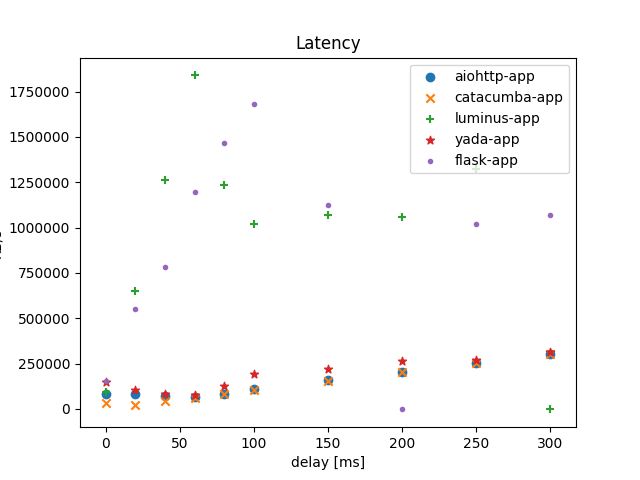
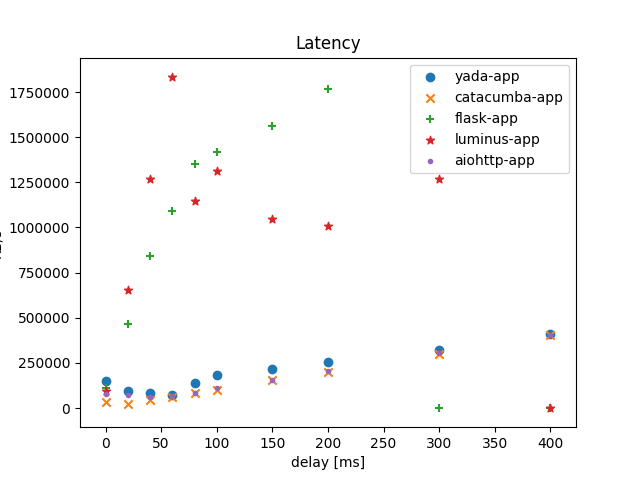
raw article

diff --git a/source/_drafts/clojure-vs-python-web-benchmark.md b/source/_drafts/clojure-vs-python-web-benchmark.md
@@ -1,5 +1,5 @@
 ---
-title: Clojure vs Python web benchamrk
+title: Clojure vs Python web benchmark
 tags:
     - python
     - clojure
@@ -12,42 +12,251 @@ tags:
 
 # Why?
 
-Im web developer and I want to know which tool I shoud use in given situation for backend. I have 3 languages in my belt: Clojure, JavaScript and Python so this post will be about python and clojure because i dont like JS:D.  I will check performance of my favorite python and clojure microframeworks:
+I'm web developer and I want to know which tool I should use in given situation for back-end. I have 3 languages in my belt: [Clojure], JavaScript and [Python] so this post will be about [Python] and clojure because i don't like JS:D.  I will check performance of my favorite [python] and clojure micro-frameworks:
 
-- Python
+- [Python]
   - [flask]
   - [aiohttp]
-- Clojure
+- [Clojure]
   - [luminus]
   - [catacumba]
   - [yada]
 
-I saw a lot of benchmarks and most of them dont check how app scale if we depends on slow service/db. For me its rly important because in microservice word You will olways depend on some kind of service.
+I saw a lot of benchmarks and most of them don't check how app scale if we depends on slow service/db. For me it's really important because in micro-service word You will always depend on other services.
 
-# How
+# How?
 
-# Players
+For this benchmark I implemented simple hello-word aplication in each micro-framework but with one twist. Every app accept GET param `delay` and this value is used to symulate delay. For implementing delay I used best methid for each platform but I thing async [Python] have adventage in this example because `await asyncio.sleep(delay)` is lot quicker than [Clojure] `(Thread/sleep delay)` and it's works more like synchronous `time.sleep(delay)` from synchronous [Python].
+
+# Implementations
+
+I will skip details and only router/response part of each app.
+
+## Flask
+
+[Flask] is synchronous [Python] micro-framework and implementing hello-world id easy as:
+
+```python
+app = Flask(__name__)
+
+
+@app.route("/")
+def hello():
+    delay = request.args.get('delay')
+    time.sleep(toInt(delay)/1000)
+    return "hello world!"
+```
+## Aiohttp
+
+[Aiohttp] is asynchronous [Python] micro-framework and it's some how similar to [Flask]:
+
+```python
+async def index(request):
+    delay = request.GET.get('delay')
+    await asyncio.sleep(toInt(delay)/1000)
+    return web.Response(text="hello world!")
+
+
+app = web.Application()
+app.router.add_get('/', index)
+```
+
+## Luminus
+
+[Luminus] is more project template than micro-framerok in my opinion and generate a lot of unnecesary files. But it's extreamply simple to start:
+
+```bash
+lein new luminus <your project name> +service
+```
+and we have service with swagger and docker file. As default web server [Luminus] use [Immutant] with is based on [Undertow]. Implementation:
+
+```clojure
+(defn hello-handler [delay]
+  (Thread/sleep delay)
+  "hello world!")
+
+(defapi service-routes
+  {:swagger {:ui "/swagger-ui"
+             :spec "/swagger.json"
+             :data {:info {:version "1.0.0"
+                           :title "Sample API"
+                           :description "Sample Services"}}}}
+
+  (GET "/" []
+       :query-params [{delay :- Long 0}]
+       :return String
+       (ok (hello-handler delay))))
+```
+
+it's more LOC than [Python] but we have field validation and swagger.
+
+## Catacumba
+
+[Catacumba] is new player in [Clojure] word its based on [Ratpack] and its asynchronous. Implementation:
+
+```clojure
+(defn hello-handler [ctx]
+  (let [delay (-> ctx :query-params :delay str->int)
+        result (d/future
+                 (Thread/sleep delay)
+                 "hello world!")]
+    result))
+
+(defn routes [base]
+  (ct/routes [
+              [:get "" hello-handler]]))
+```
+It's have less lines than [Luminus] implementation but have save functionality as [Python] implementations(no validation, no swagger).
+
+## Yada
+
+[Yada] yada yada... I really like idea behind yada and its some how similar to [Aiohttp] and [Flask]. But its asynchronous by design and have goal to be compilance with HTTP standards. Implementation:
+
+```clojure
+(defn hello-response [ctx]
+  (let [delay  (get-in ctx [:parameters :query :delay])
+        result (d/future
+                 (Thread/sleep delay)
+                 "hello world!")]
+    result))
+
+(def hello-resource
+  (yada/resource
+   {:methods {:get
+              {:parameters {:query {:delay s/Int}}
+               :produces   {:media-type "text/plain"}
+               :response   hello-response}}}))
+
+(defn routes [base]
+  [base
+   [
+    ["" hello-resource]
+    [true (yada/as-resource nil)]]])
+```
+Again more code then [Python] but code is more declarative in my opinion and we have query validation build in.
+
+# Benchmark
+
+For benchamrking i used [wrk] with this set op parametrs:
+
+```bash
+wrk -t12 -c1000 -d60s -s report.lua http://localhost:8080/?delay=$delay
+```
+
+Where `report.lua` is little script generating csv from test and it's avialable in [benchmark] repo. Beffor etch test [wrk] is used without lua script for warm up [JVM] (its not needed for [Python]).
+
+[Python] implementations was runned on [gunicorn] using `number_of_cpu_cores*2` workers. It should give [Python] equal chance vs [JVM].
 
 # Results
 
+For first run I got suprising resuls because [Yada] was only faster than [Flask]:
+
+## Aiohttp
+
+```
+Running 1m test @ http://localhost:8080/?delay=0
+  12 threads and 1000 connections
+  Thread Stats   Avg      Stdev     Max   +/- Stdev
+    Latency    77.29ms   43.31ms 294.88ms   65.91%
+    Req/Sec     1.10k   369.46     3.74k    71.47%
+  786155 requests in 1.00m, 122.96MB read
+Requests/sec:  13084.33
+Transfer/sec:      2.05MB
+```
+
+## Catacumba
+
+```
+Running 1m test @ http://localhost:8080/?delay=0
+  12 threads and 1000 connections
+  Thread Stats   Avg      Stdev     Max   +/- Stdev
+    Latency    34.96ms   30.03ms 965.51ms   91.57%
+    Req/Sec     2.58k   370.05     5.92k    88.60%
+  1846723 requests in 1.00m, 158.51MB read
+  Non-2xx or 3xx responses: 1
+Requests/sec:  30736.96
+Transfer/sec:      2.64MB
+```
+
+## Flask
+
+```
+flask-app
+Running 1m test @ http://localhost:8080/?delay=0
+  12 threads and 1000 connections
+  Thread Stats   Avg      Stdev     Max   +/- Stdev
+    Latency   111.64ms  132.68ms   1.99s    96.28%
+    Req/Sec    97.81    131.25     1.13k    93.16%
+  41315 requests in 1.00m, 6.78MB read
+  Socket errors: connect 0, read 12, write 0, timeout 594
+Requests/sec:    687.52
+Transfer/sec:    115.48KB
+```
+
+## Luminus (immutant)
+
+```
+Running 1m test @ http://localhost:8080/?delay=0
+  12 threads and 1000 connections
+  Thread Stats   Avg      Stdev     Max   +/- Stdev
+    Latency    94.16ms  133.16ms   1.58s    97.87%
+    Req/Sec     1.09k   159.41     2.13k    86.47%
+  732819 requests in 1.00m, 248.80MB read
+  Socket errors: connect 0, read 0, write 0, timeout 996
+Requests/sec:  12193.31
+Transfer/sec:      4.14MB
+```
+## Yada
+
+```
+Running 1m test @ http://localhost:8080/?delay=0
+  12 threads and 1000 connections
+  Thread Stats   Avg      Stdev     Max   +/- Stdev
+    Latency   151.23ms  235.77ms   1.99s    88.18%
+    Req/Sec   750.00    288.08     2.09k    71.45%
+  532697 requests in 1.00m, 128.68MB read
+  Socket errors: connect 0, read 0, write 0, timeout 658
+  Non-2xx or 3xx responses: 243
+Requests/sec:   8867.34
+Transfer/sec:      2.14MB
+```
+
+All timeout i thik are because [Yada] have many interceptors (similar to middlewares in other framework) by default so its do more than others in this example. I do more tests with delays from 0 to 400ms. I presents only charts because are more redable but all data are available in [repo]
+
 {% asset_img requests_per_sec.png Request per second %}
 
-{% asset_img transfer.png Transfer %}
+During tests with bigers delay interceptors overload are less visable and around 400ms are not visable at all. But steal [catacumba] is beast if we care only about performance and [Aiohttp] with delays is as good as [catacumba].. big suprise!!
 
 {% asset_img latency.png Latency %}
 
-{% asset_img timeouts.png Timeouts %}
+If delay grows only [Catacumba], [Yada] and [Aiohttp] have aceptable latency.
 
 {% asset_img all_errors.png All errors %}
+
+level of HTTP errors for big 3 are on similar level if delays grows.
+
+# Conclusion
+
+I i must choice i will choise betwen [Yada], [Catacumba] and [Aiohttp]. [Catacumba] is extremely fase but new and ofer much less than [Yada] in my opinion so for me is more about [Yada] vs [Aiohttp]. For simple things I think [Aiohttp] is best choice posible but for bigger meayby [Yada] is better not only because [clojure] and [JVM] are better than [Python] in my opinion. I ill try implement more real live example in both and check if [Aiohttp] is steal winner in term of performance and code simplecity.
 
 # Source Code
 
 You can generate/experiment with data by You own using code from [benchmark] repo.
 
 
-[benchmark]: https://github.com/beetleman/clojure-vs-python-web-benchmark
+[benchmark]: https://github.com/beetleman/clojure-vs-Python-web-benchmark
+[repo]: https://github.com/beetleman/clojure-vs-Python-web-benchmark
 [flask]: http://flask.pocoo.org/
 [aiohttp]: https://aiohttp.readthedocs.io/en/stable/index.html
 [luminus]: http://www.luminusweb.net/
 [yada]: https://juxt.pro/yada/index.html
 [catacumba]: https://funcool.github.io/catacumba/latest/
+[ratpack]: https://ratpack.io/
+[immutant]: http://immutant.org/
+[undertow]: http://undertow.io/
+[Clojure]: https://clojure.org
+[Python]: https://www.python.org
+[aleph]: http://aleph.io/
+[wrk]: https://github.com/wg/wrk
+[jvm]: http://openjdk.java.net
+[gunicorn]: http://gunicorn.org
